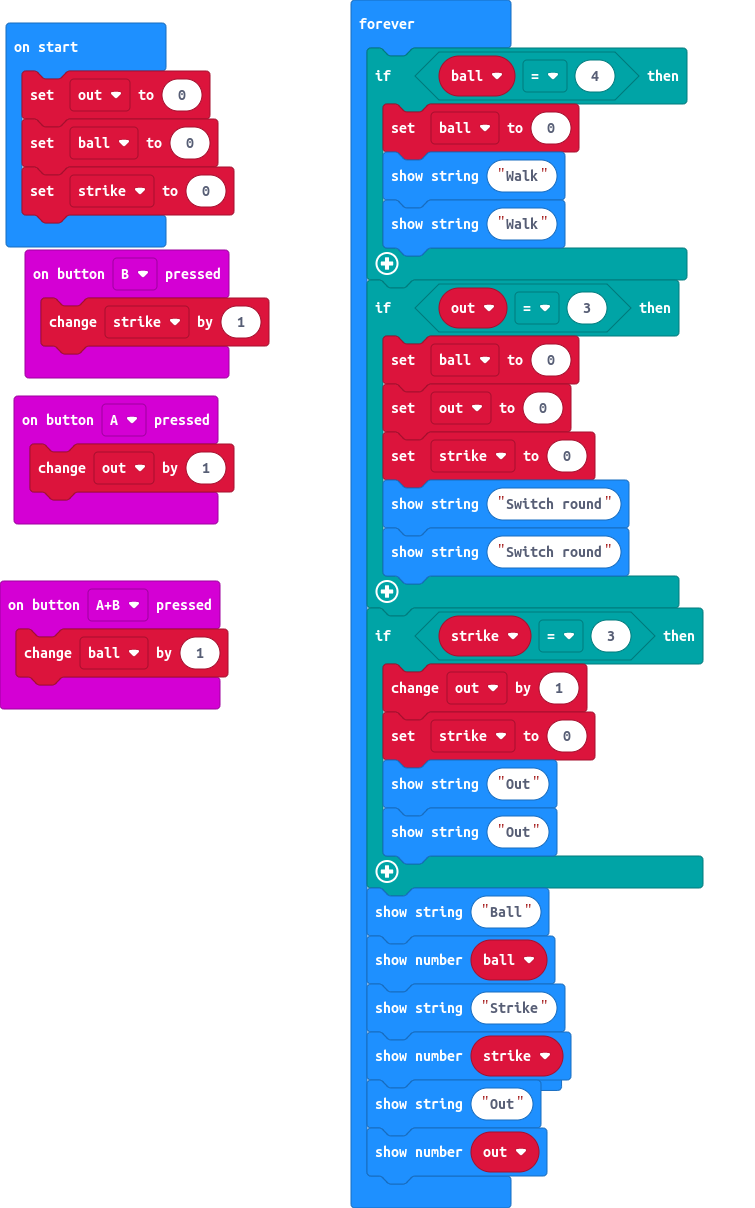
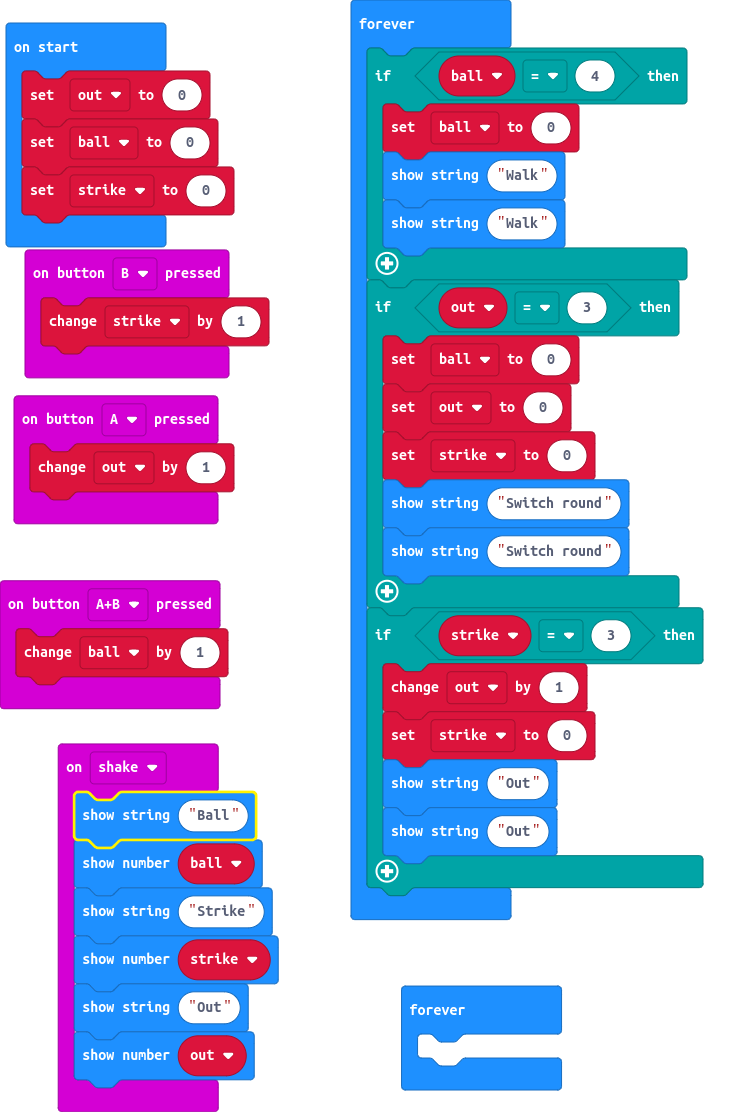
Update main.blocks, main.ts

diff --git a/main.ts b/main.ts
@@ -7,9 +7,20 @@ input.onButtonPressed(Button.AB, function () {
 input.onButtonPressed(Button.B, function () {
     strike += 1
 })
-let out = 0
-let ball = 0
+input.onGesture(Gesture.Shake, function () {
+    basic.showString("Ball")
+    basic.showNumber(ball)
+    basic.showString("Strike")
+    basic.showNumber(strike)
+    basic.showString("Out")
+    basic.showNumber(out)
+})
 let strike = 0
+let ball = 0
+let out = 0
+out = 0
+ball = 0
+strike = 0
 basic.forever(function () {
     if (ball == 4) {
         ball = 0
@@ -29,12 +40,6 @@ basic.forever(function () {
         basic.showString("Out")
         basic.showString("Out")
     }
-    basic.showString("Ball")
-    basic.showNumber(ball)
-    basic.showString("Strike")
-    basic.showNumber(strike)
-    basic.showString("Out")
-    basic.showNumber(out)
 })
 basic.forever(function () {
 	
